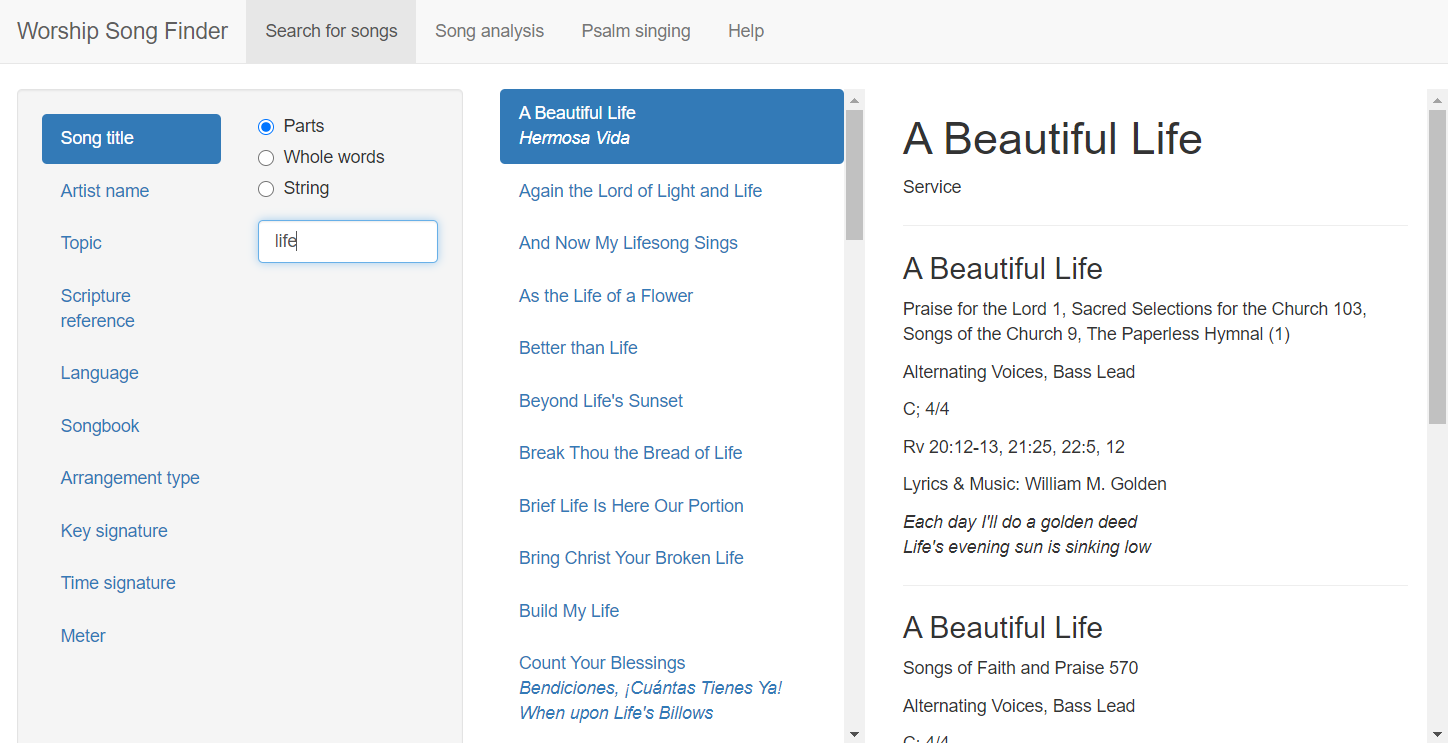
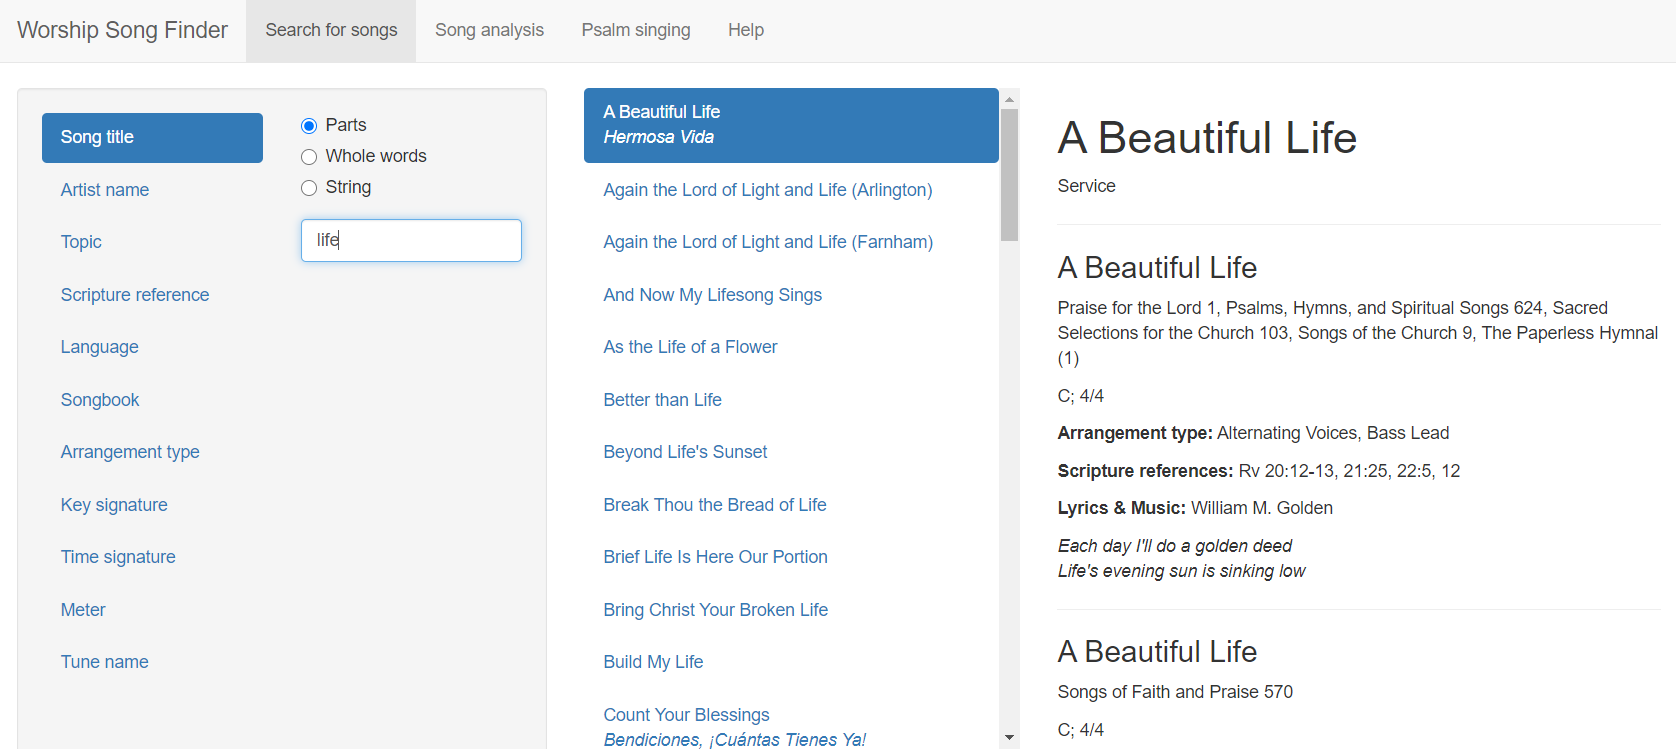
update help pages and screenshot

diff --git a/help/title_artist_tune_name_filters.html b/help/title_artist_tune_name_filters.html
@@ -1,4 +1,4 @@
-<p>The title and artist filters are <em>not</em> case-sensitive.</p>
+<p>The title and artist filters are <em>not</em> case-sensitive.</p>
 <p>The title filter searches the titles of all song instances.  There are three options:</p>
 <ul>
   <li><b>Match parts</b> splits your input into parts (by spaces) and searches for titles that have <em>all</em> of the parts.  The parts don't have to be whole words, and they can occur in any order.</li>
@@ -18,3 +18,4 @@
   </ul>
 </ul>
 <p>The artist filter treats your input in the same way as "Match parts" in the title filter.  You can specify whether you want to search for the author of the lyrics, the composer of the music, the arranger, or any one of the three.</p>
+<p>The tune name filter works like the title filter; it applies to the name of the tune (e.g., NETTLETON for "Come, Thou Fount of Every Blessing").  Tune names are printed in all caps, but matching is not case-sensitive.</p>

diff --git a/help/topic_arrangement_songbook_filters.html b/help/topic_arrangement_songbook_filters.html
@@ -26,6 +26,7 @@
   <li><a href="https://acappella.org/store/praise-and-harmony/" style="color: blue">Praise &amp; Harmony</a></li>
   <li><a href="http://www.taylorpublications.com/index.php?route=product/category&path=4_80" style="color: blue">Praise for the Lord</a></li>
   <li><a href="http://www.taylorpublications.com/index.php?route=product/category&path=4_13" style="color: blue">Praise Hymnal</a></li>
+  <li><a href="https://sumphonia.com/hymnals/" style="color: blue">Psalms, Hymns, and Spiritual Songs</a></li>
   <li><a href="http://www.psalom.org/" style="color: blue">Psalom</a></li>
   <li><a href="http://asacredselections.com/sacselch.asp" style="color: blue">Sacred Selections for the Church</a></li>
   <li><a href="http://www.taylorpublications.com/index.php?route=product/category&path=4_16" style="color: blue">Songs of Faith and Praise</a></li>
